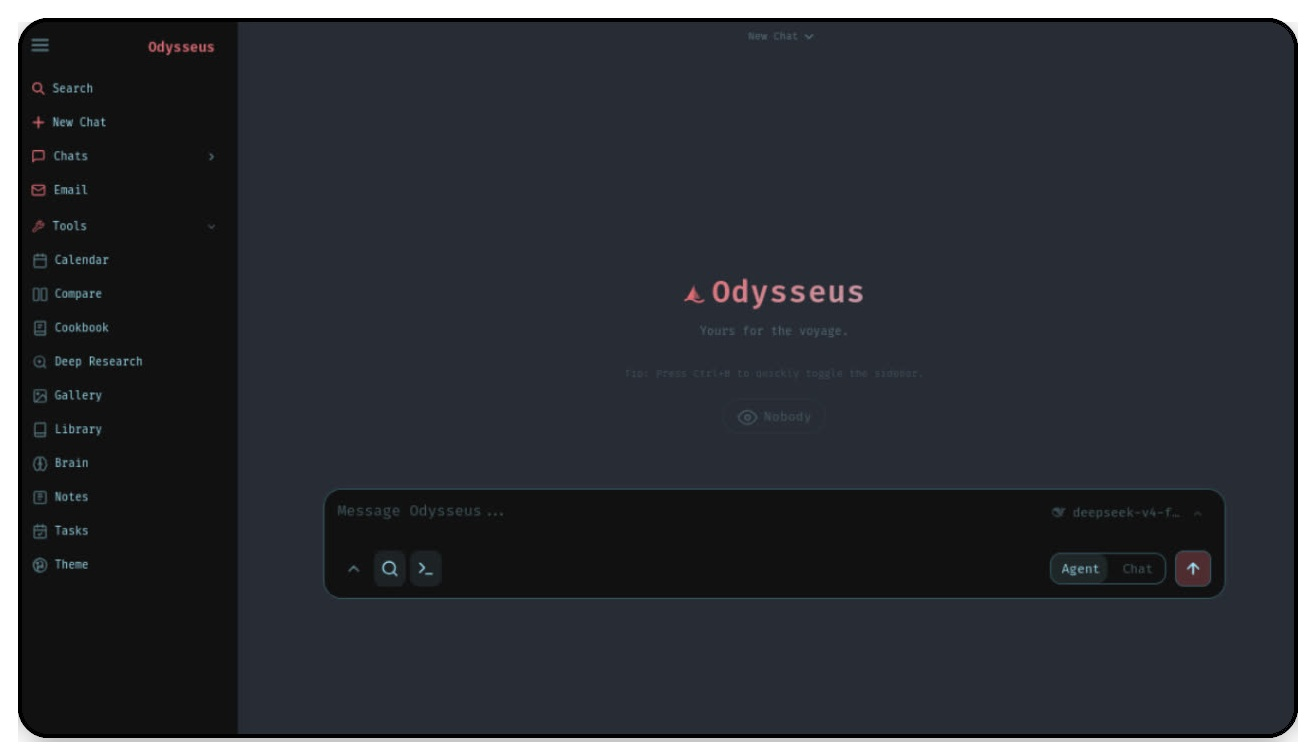
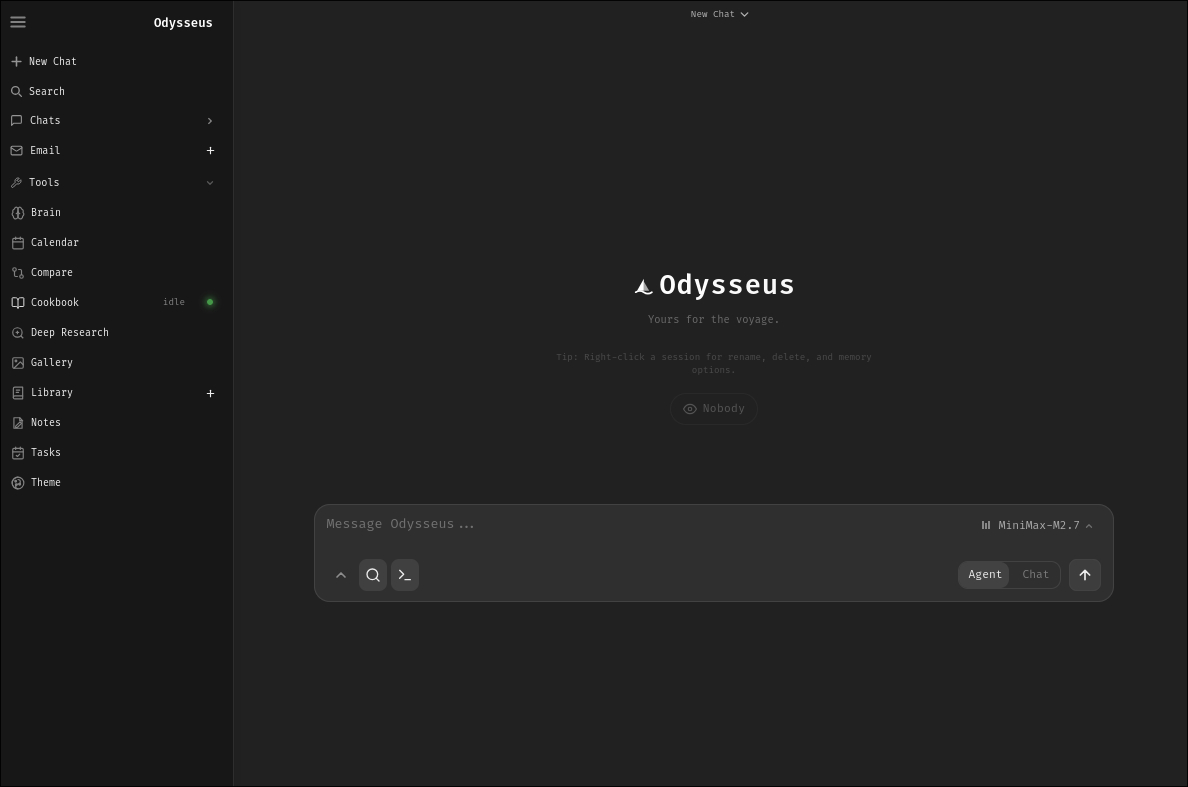
Refresh README screenshot

diff --git a/README.md b/README.md
@@ -1,5 +1,5 @@
 <p align="center">
-  <img src="docs/odysseus-wordmark.png" alt="Odysseus" width="280">
+  <img src="docs/odysseus-wordmark.png" alt="Odysseus" width="238">
 </p>
 
 <p align="center">
@@ -18,7 +18,7 @@
 </p>
 
 <p align="center">
-  <img src="docs/odysseus.jpg" alt="Odysseus interface">
+  <img src="docs/odysseus-browser.jpg" alt="Odysseus interface">
 </p>
 
 ---